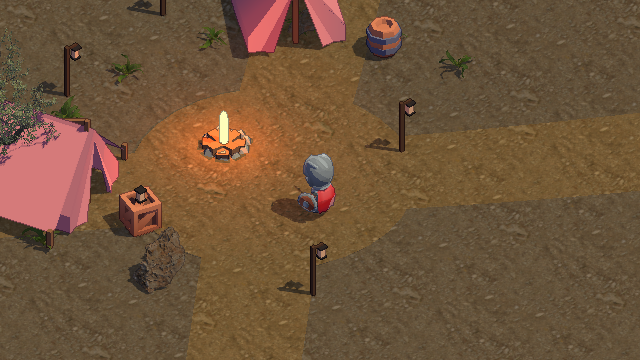
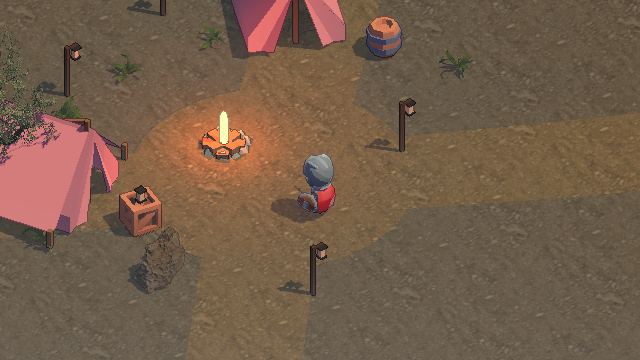
Background lighting phase 3: height fog
- Sprite Toon height fog: exponential by world height with slow drift, so
  haze pools over the lake and low shore while the camp stays clear. An
  orthographic camera made distance fog a flat tint.
- Practical lights glow in the haze; characters take 35% of it.
- WorldEnvironment drives density and a night/sunset/day haze palette
  (converted to linear; SetGlobalVector skips that step).
- Capture tool saves full / no-post / no-fog variants per shot.

diff --git a/Assets/Editor/BackgroundLighting.cs b/Assets/Editor/BackgroundLighting.cs
@@ -112,14 +112,14 @@ namespace PixelArtLab.Editor
         }
 
         // Play-mode captures of the live pixel buffer (post-processing only runs there).
-        // Writes Previews/Lighting/<hour>[-flat].png and a luminance report.
+        // Writes Previews/Lighting/<shot>[-no-post|-no-fog].png, a luminance report and frame times.
         [MenuItem("Pixel Art Lab/Background Lighting/Capture Play Mode")]
         public static void Capture(){EditorSceneManager.OpenScene(DetailedWoodlandBuilder.ScenePath);SessionState.SetBool("Lighting.Capture",true);EditorApplication.isPlaying=true;}
         [InitializeOnLoadMethod]static void Resume(){if(SessionState.GetBool("Lighting.Capture",false))EditorApplication.update+=Tick;}
         static readonly (string name,float hour,bool shore)[] Shots={("Noon",13,false),("Sunset",17.5f,false),("Night",0,false),("Night-Shore",0,true),("Sunset-Shore",17.5f,true)};
         static readonly List<string> report=new List<string>();
         static readonly List<float> frameTimes=new List<float>();
-        static int frame,shot,timing;static bool flat;static double timingStart;
+        static int frame,shot,timing,variant;static double timingStart;
         static void Tick()
         {
             if(!Application.isPlaying)return;
@@ -129,17 +129,19 @@ namespace PixelArtLab.Editor
             env.runClock=false;
             if(shot<Shots.Length)
             {
-                env.hour=Shots[shot].hour;if(volume)volume.weight=flat?0:1;
+                // Variants: 0 full, 1 no post-processing, 2 no height fog.
+                env.hour=Shots[shot].hour;if(volume)volume.weight=variant==1?0:1;env.heightFog=variant!=2;
                 if(frame==0){var at=Shots[shot].shore?new Vector3(-17,1,12):env.player.spawnPoint;if((env.player.transform.position-at).sqrMagnitude>1){env.player.Teleport(at);follow.lookOffset=Shots[shot].shore?new Vector3(-6,0,7):Vector3.zero;follow.SnapToPlayer();}}
                 // Let the camera settle and the volume stack update before reading.
                 if(++frame<30)return;frame=0;
                 Directory.CreateDirectory("Previews/Lighting");
-                var pixels=Save(buffer,$"Previews/Lighting/{Shots[shot].name}{(flat?"-no-post":"")}.png");
+                string suffix=variant==1?"-no-post":variant==2?"-no-fog":"";
+                var pixels=Save(buffer,$"Previews/Lighting/{Shots[shot].name}{suffix}.png");
                 var luma=pixels.Select(p=>(p.r*.2126f+p.g*.7152f+p.b*.0722f)/255).OrderBy(v=>v).ToArray();
                 float mean=luma.Average(),dark=luma[(int)(luma.Length*.1f)],bright=luma[(int)(luma.Length*.95f)];
-                report.Add($"{Shots[shot].name}{(flat?" (no post)":"")}: mean {mean:F3}, p10 {dark:F3}, p95 {bright:F3}, contrast p95/p10 {bright/Mathf.Max(.002f,dark):F1}");
-                if(!flat){flat=true;return;}
-                flat=false;shot++;return;
+                report.Add($"{Shots[shot].name}{suffix}: mean {mean:F3}, p10 {dark:F3}, p95 {bright:F3}, contrast p95/p10 {bright/Mathf.Max(.002f,dark):F1}");
+                if(++variant<3)return;
+                variant=0;shot++;env.heightFog=true;return;
             }
             // Frame time at the night camp with the placed practical lights off, then on (uncapped).
             Application.targetFrameRate=-1;QualitySettings.vSyncCount=0;env.hour=0;if(volume)volume.weight=1;

diff --git a/Assets/Scripts/WorldEnvironment.cs b/Assets/Scripts/WorldEnvironment.cs
@@ -27,6 +27,12 @@ namespace PixelArtLab
         // Point shadows go to this many of the nearest practical lights (512px cube maps each).
         [Range(0,8)]public int shadowedPracticals=4;
         readonly System.Collections.Generic.List<Light> ordered=new System.Collections.Generic.List<Light>();
+        // Height fog (Docs/Background-Lighting-Design.md L4): haze pools over the lake and low
+        // ground, thickest at night, warm-violet at sunset, and glows around practical lights.
+        public bool heightFog=true;
+        public float fogBaseHeight=.3f,fogFalloff=1.2f;
+        [Range(0,1)]public float nightFogDensity=.28f,dayFogDensity=.12f,fogDrift=.6f,lampFogGlow=.08f;
+        public Color nightFogColor=new Color(.09f,.15f,.19f),sunsetFogColor=new Color(.40f,.27f,.33f),dayFogColor=new Color(.66f,.72f,.74f);
         public Color nightAmbientTint=new Color(.42f,.62f,.76f),dayAmbientTint=new Color(.95f,.97f,1);
         Color originalSunColor,originalBackground;
         Quaternion originalRotation;
@@ -117,6 +123,13 @@ namespace PixelArtLab
             Color background=Color.Lerp(new Color(.035f,.055f,.105f),new Color(.32f,.43f,.48f),Daylight);
             background=Color.Lerp(background,new Color(.35f,.41f,.47f),cloud*.55f);
             if(worldCamera)worldCamera.backgroundColor=background;
+            Color haze=Color.Lerp(nightFogColor,dayFogColor,Daylight);
+            haze=Color.Lerp(haze,sunsetFogColor,sunset*Daylight*(1-Daylight)*4); // peaks mid-transition
+            haze=Color.Lerp(haze,new Color(.5f,.55f,.6f),cloud*.5f);
+            float density=heightFog?Mathf.Lerp(nightFogDensity,dayFogDensity,Daylight)*(1+cloud*.6f):0;
+            Shader.SetGlobalVector("_LabHeightFog",new Vector4(fogBaseHeight,fogFalloff,density,fogDrift));
+            // SetGlobalVector skips the sRGB->linear step SetGlobalColor does; convert explicitly.
+            haze=haze.linear;Shader.SetGlobalVector("_LabHeightFogColor",new Vector4(haze.r,haze.g,haze.b,lampFogGlow));
             RenderSettings.fog=true;RenderSettings.fogMode=FogMode.Linear;RenderSettings.fogColor=background;
             RenderSettings.fogStartDistance=Mathf.Lerp(80,57,cloud);RenderSettings.fogEndDistance=Mathf.Lerp(150,99,cloud);
         }
@@ -124,7 +137,7 @@ namespace PixelArtLab
         {
             Shader.SetGlobalVector("_LabEnvironment",Vector4.zero);Shader.SetGlobalVector("_LabWind",Vector4.zero);
             Shader.SetGlobalFloat("_LabWeatherTime",0);Shader.SetGlobalFloat("_LabCloudCover",0);Shader.SetGlobalFloat("_LabWaterMotion",0);
-            Shader.SetGlobalFloat("_LabWaterTime",0);
+            Shader.SetGlobalFloat("_LabWaterTime",0);Shader.SetGlobalVector("_LabHeightFog",Vector4.zero);
             if(cached&&sun){sun.color=originalSunColor;sun.intensity=originalIntensity;sun.transform.rotation=originalRotation;}
             if(worldCamera)worldCamera.backgroundColor=originalBackground;RenderSettings.fog=false;
             if(torches!=null)foreach(var torch in torches)if(torch){var practical=torch.GetComponent<PracticalLight>();if(practical)practical.Apply(0);else torch.intensity=2.3f;}

diff --git a/Docs/Background-Lighting-Design.md b/Docs/Background-Lighting-Design.md
@@ -127,7 +127,23 @@ Replaced 캡처(바 실내, 창고) 기준:
 
 - 프레임 시간(에디터 플레이 모드, 밤 야영지, 상한 해제): 랜턴 끔 2.02ms, 켬 1.98ms(중앙값). 측정 오차 범위 안이라 차이가 없다. GPU 시간만 따로 잰 값은 아니다.
 
-## 7. 단계별 계획
+## 7. 3단계 결과 (2026-11-02)
+
+- `Sprite Toon` 전방 패스에 **높이 안개**를 넣었다. 월드 높이 기준 지수 감쇠와 느린 저주파 흔들림을 쓴다. 호수(높이 약 0.3m)와 낮은 물가에 짙고, 야영지(약 1.2m)는 옅고, 언덕은 거의 맑다.
+- 생활 조명이 안개를 물들인다. 광원 루프에서 감쇠량만큼 빛을 더하고 그림자는 무시해, 랜턴 주변 공기가 은은하게 빛난다.
+- 캐릭터는 안개를 35%만 받아 배경과 분리된다(L8).
+- `WorldEnvironment` 값: `nightFogDensity` 0.28, `dayFogDensity` 0.12, `fogBaseHeight` 0.3m, `fogFalloff` 1.2m, `fogDrift` 0.6, `lampFogGlow` 0.08. 색은 밤 청록, 노을 보라, 낮 회청이고, 비·눈이 오면 짙어진다. `heightFog`로 끄고 켤 수 있다.
+- 처음 캡처에서는 화면이 회색 막처럼 덮였다. 원인은 `SetGlobalVector`가 sRGB→선형 변환을 하지 않아 어두운 청록(0.15)이 밝은 회색으로 들어간 것이었다. `Color.linear`로 변환해 고쳤다.
+
+| 장면 | 명암비 p95/p10 (안개 없음 → 있음) | 판단 |
+| --- | --- | --- |
+| 밤 야영지 | 3.5 → 3.1 | 옅은 공기감, 불빛 대비 유지 |
+| 밤 호숫가 | 4.3 → 2.7 | 호수 위 안개, 낚시등 주변이 빛남 |
+| 노을 호숫가 | 3.6 → 1.6 | 보라 안개가 호수를 덮지만 수면과 카누는 보임. 가장 강한 장면 |
+
+- 캡처 도구는 장면마다 "전체 / 후처리 없음 / 안개 없음" 세 가지를 저장한다.
+
+## 8. 단계별 계획
 
 | 단계 | 내용 | 확인 방법 |
 | --- | --- | --- |
@@ -140,7 +156,7 @@ Replaced 캡처(바 실내, 창고) 기준:
 모든 단계에서 기존 자동 검증(렌더링, 반사·그림자, 가림 해소, 플레이)을 통과해야 한다.
 **실행 파일은 빌드하지 않는다.**
 
-## 8. 성능 목표 (PC)
+## 9. 성능 목표 (PC)
 
 - 기준: GTX 1060급, 1080p 출력(내부 버퍼 약 640×360), 60fps
 - 볼류메트릭 패스: 1ms 이하
